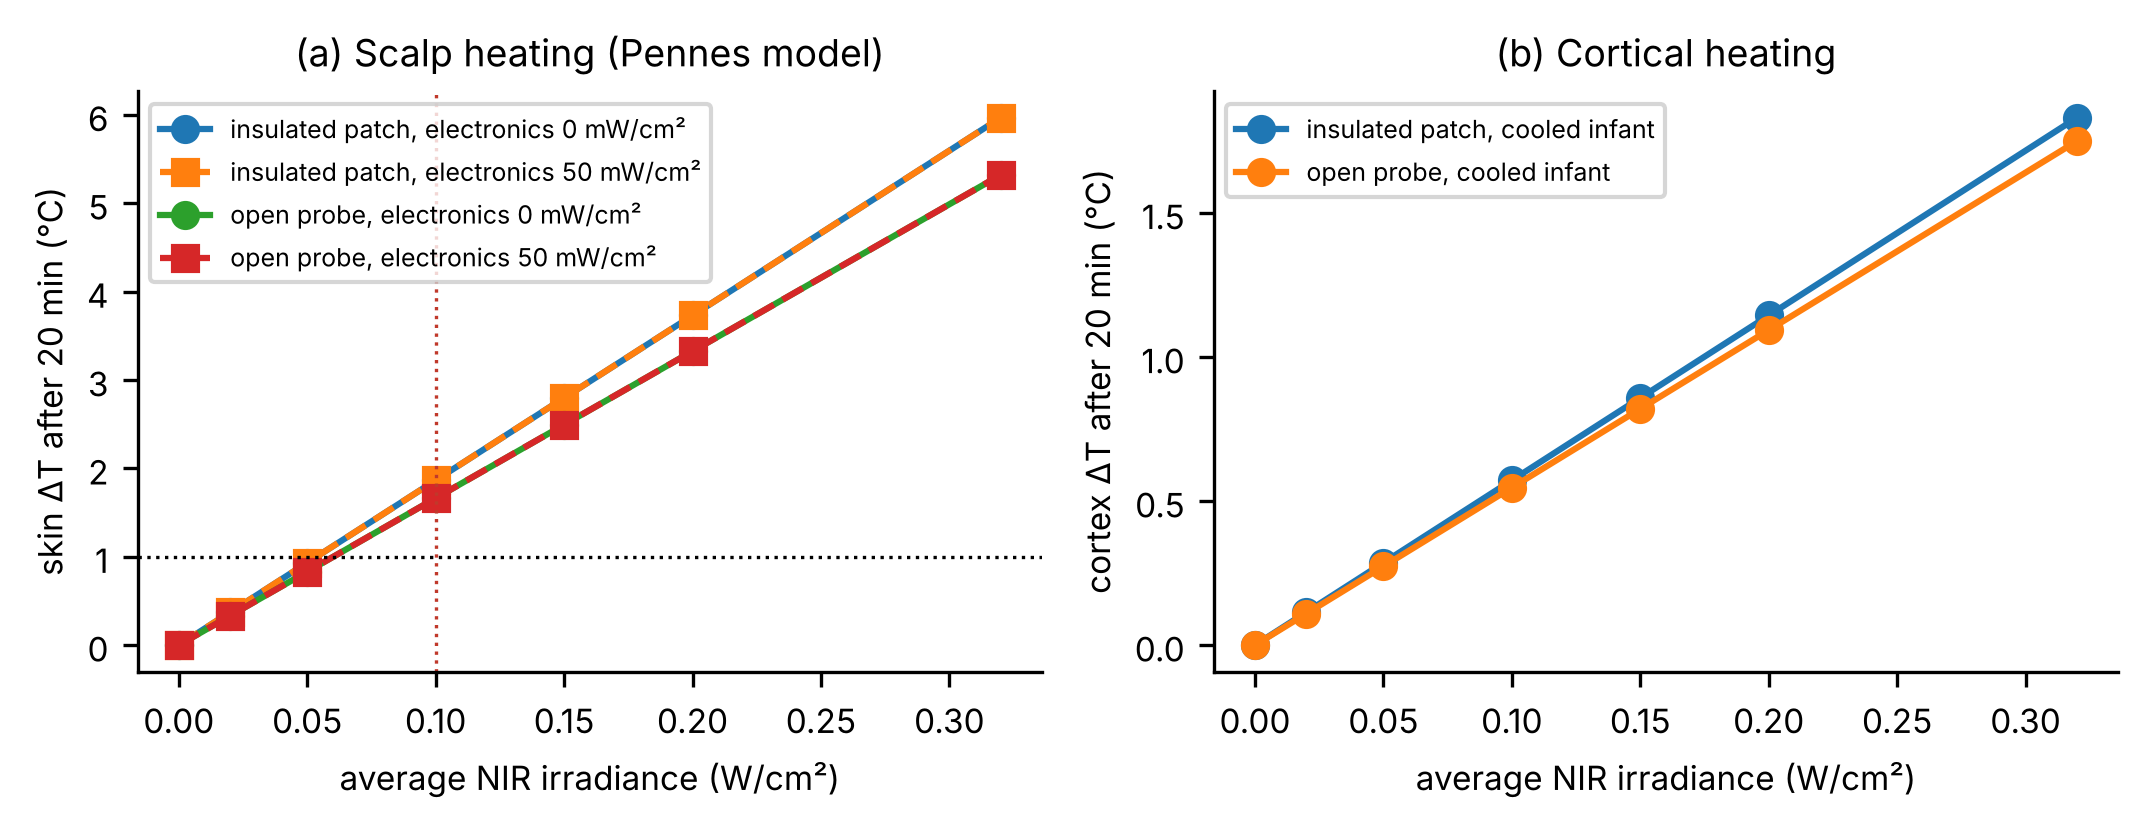
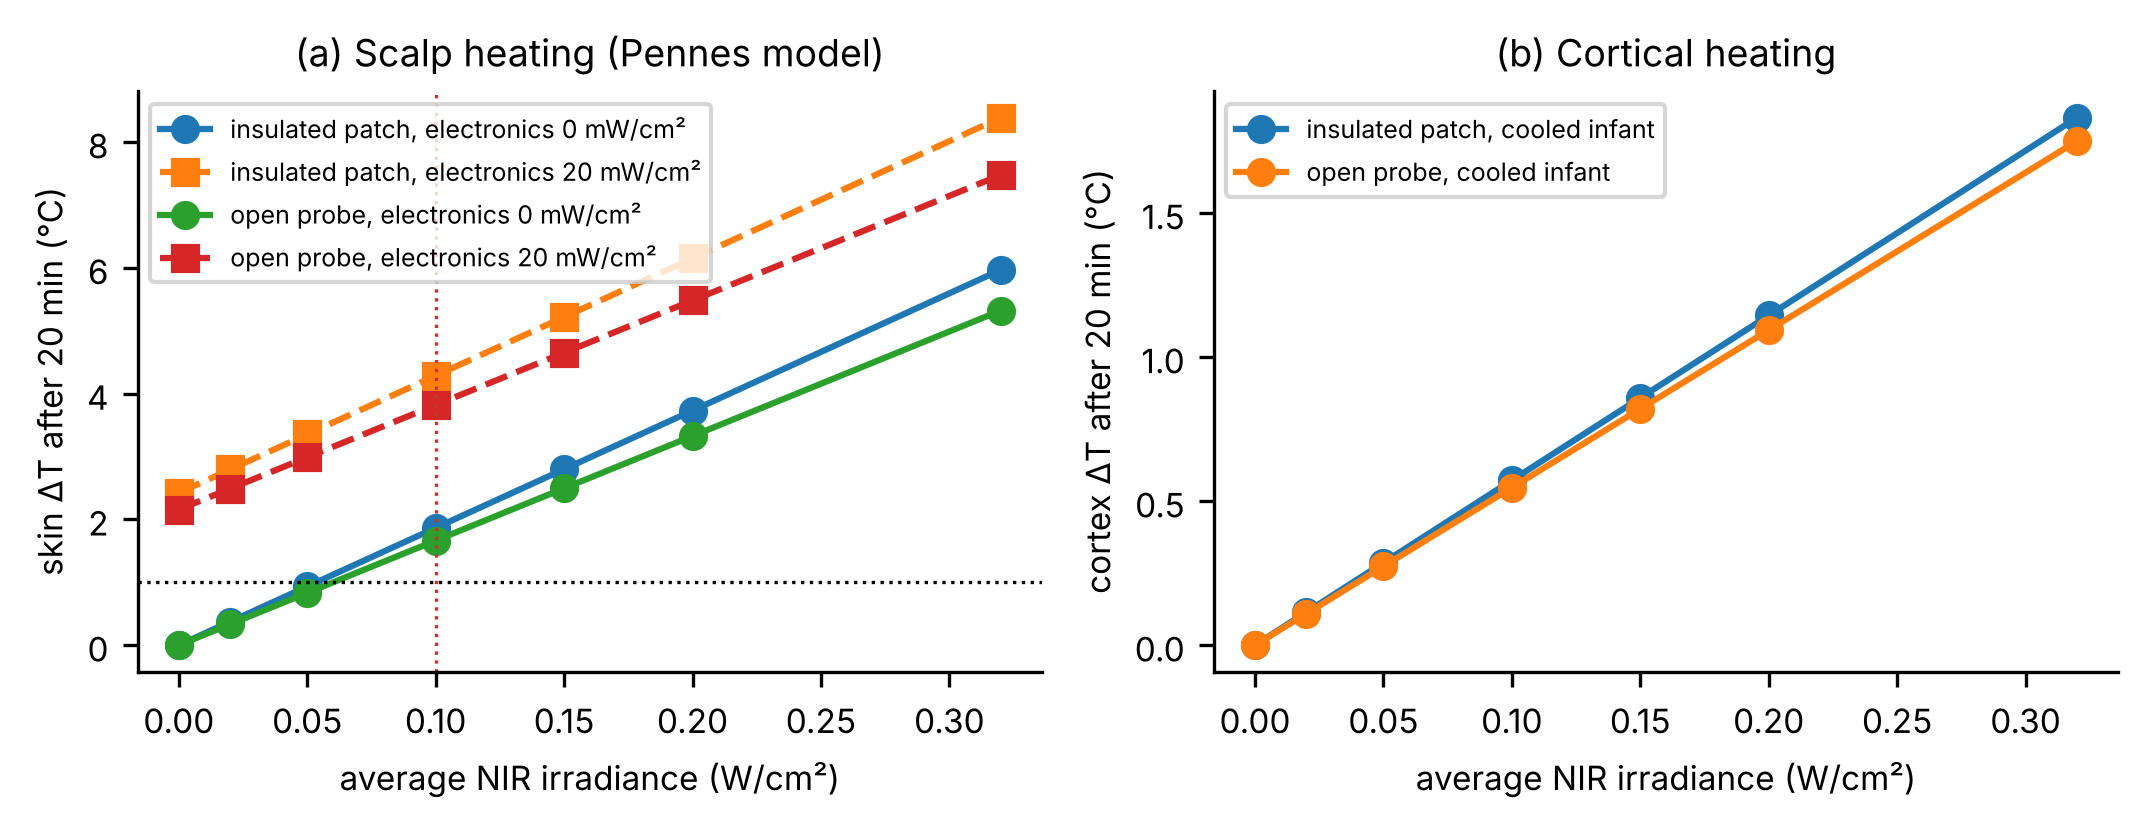
Add thermal-safety and power-budget results (E6), corrected echo-shift precision, figure fixes and paper text
Claude-Session: https://claude.ai/code/session_019HZM7LuCzqnghzsfwyUX8m

diff --git a/neonatal_photoacoustic_monitor/experiments/make_figures.py b/neonatal_photoacoustic_monitor/experiments/make_figures.py
@@ -240,7 +240,7 @@ def fig7():
     fig, ax = plt.subplots(1, 2, figsize=(7.2, 2.8))
     a = ax[0]
     for contact in ("insulated patch", "open probe"):
-        for q in (0.0, 0.05):
+        for q in (0.0, 0.02):
             d = E6[(E6.contact == contact) & (E6.q_elec_Wcm2 == q) & (E6.T_core == 37.0)]
             a.plot(d.I_avg_Wcm2, d.dT_skin_20min, "o-" if q == 0 else "s--", label=f"{contact}, electronics {q*1e3:.0f} mW/cm²")
     a.axhline(1.0, color="k", ls=":", lw=0.8); a.axvline(0.1, color="#c0392b", ls=":", lw=0.8)

diff --git a/neonatal_photoacoustic_monitor/docs/PAPER_DRAFT.md b/neonatal_photoacoustic_monitor/docs/PAPER_DRAFT.md
@@ -243,7 +243,30 @@ All readings are in `results/` of the repository; figures are produced by `exper
 
 *Fig. 7. Pennes bioheat model of the tissue under the probe. (a) Scalp temperature rise after 20 min versus average NIR irradiance for an insulating patch and an open probe, with and without 50 mW/cm² of electronic self-heating. (b) Cortical temperature rise for the cooled infant.*
 
-{{E6_TEXT}}
+**Optical heating.** In the Pennes model the scalp under an insulating patch warms by 0.37 °C per 20 mW/cm² of average near-infrared irradiance after 20 min (0.33 °C under an open probe), i.e. 0.93 °C at 50 mW/cm², 1.86 °C at the 0.1 W/cm² assumed in Table II and 6.0 °C at the undated ANSI average-power limit of 0.32 W/cm² (Fig. 7(a), Table VIII); 90 % of the rise is reached within 5 min. The cortex of a cooled infant warms by 0.29 °C at 50 mW/cm² and 0.57 °C at 0.1 W/cm² (Fig. 7(b)), which is not negligible against a 33.5 °C target, and the absolute skin temperature stays below the 41 °C applied-part limit of IEC 60601-1 in every case (35.3 °C at 0.1 W/cm² for the cooled infant). A 1 °C scalp limit therefore corresponds to a continuous average irradiance of about 50 mW/cm², or to the 0.1 W/cm² of Table II at a duty cycle of 50 % or less. Since the SNR under an average-power cap scales with the square root of the cap (1), halving it divides the SNRs of Table VII by 1.4; the ×4 noise-power setting of E5 covers this case with margin.
+
+**Electronic heating.** Heat from the driver and front-end that reaches the skin is the larger hazard: 20 mW/cm² conducted into the scalp raises it by 2.4 °C and 50 mW/cm² by 6 °C, independently of the optical load (Table VIII), because the insulated contact can shed heat only by conduction into the tissue. The patch must therefore conduct its dissipation to the air side, and the heat flux into the skin must be kept below about 5 mW/cm² (0.6 °C), which the thermistor at the pad–skin interface can verify continuously.
+
+**Table VIII. E6 scalp temperature rise after 20 min (Pennes model, 37 °C infant; cooled infant within 0.1 °C of these values).**
+
+| Average irradiance (W/cm²) | Insulated patch | Insulated patch + 20 mW/cm² electronics | Open probe | Cortex rise, cooled infant |
+|---|---|---|---|---|
+| 0.02 | 0.37 | 2.79 | 0.33 | 0.11 |
+| 0.05 | 0.93 | 3.35 | 0.83 | 0.29 |
+| 0.10 | 1.86 | 4.28 | 1.66 | 0.57 |
+| 0.20 | 3.73 | 6.15 | 3.32 | 1.14 |
+| 0.32 | 5.97 | 8.39 | 5.32 | 1.83 |
+
+**Power budget.** With a 30 % wall-plug efficiency the laser-diode stack draws 0.26 W for four wavelengths at 50 Hz each and the full patch (front end, ADC, controller and radio at 0.25 W) 0.51 W, or 0.32 W when the source runs 25 % of the time: 14 h and 23 h on a 7.4-Wh battery (Table IX). The LED array is less efficient at the same average irradiance (0.77 W, 9.6 h) because of its lower wall-plug efficiency, and the compact laser at 2 % efficiency (4.2 W) is a mains-powered bedside device. The duty-cycled laser-diode patch is thus the wearable configuration carried into E4: 25 % duty reduces the average irradiance to 25 mW/cm² (0.46 °C scalp rise) and still delivers the 10-s-frame SNR of Table VII whenever the source is on.
+
+**Table IX. E6 wearable power budget (four wavelengths, 5-mm beam radius, 0.1 W/cm² while the source is on, 0.25 W for electronics).**
+
+| Source | Wall-plug eff. | Optical energy per pulse (mJ) | Source power (W) | Total, continuous (W) | Battery life, continuous (h) | Total, 25 % duty (W) | Battery life, 25 % duty (h) |
+|---|---|---|---|---|---|---|---|
+| LED array | 0.15 | 0.039 | 0.52 | 0.77 | 9.6 | 0.38 | 19 |
+| Laser-diode stack | 0.30 | 0.39 | 0.26 | 0.51 | 14 | 0.32 | 23 |
+| Compact laser | 0.02 | 7.9 | 3.9 | 4.2 | 1.8 (mains) | 1.2 | 6.0 |
+
 
 ## VI. Discussion
 
